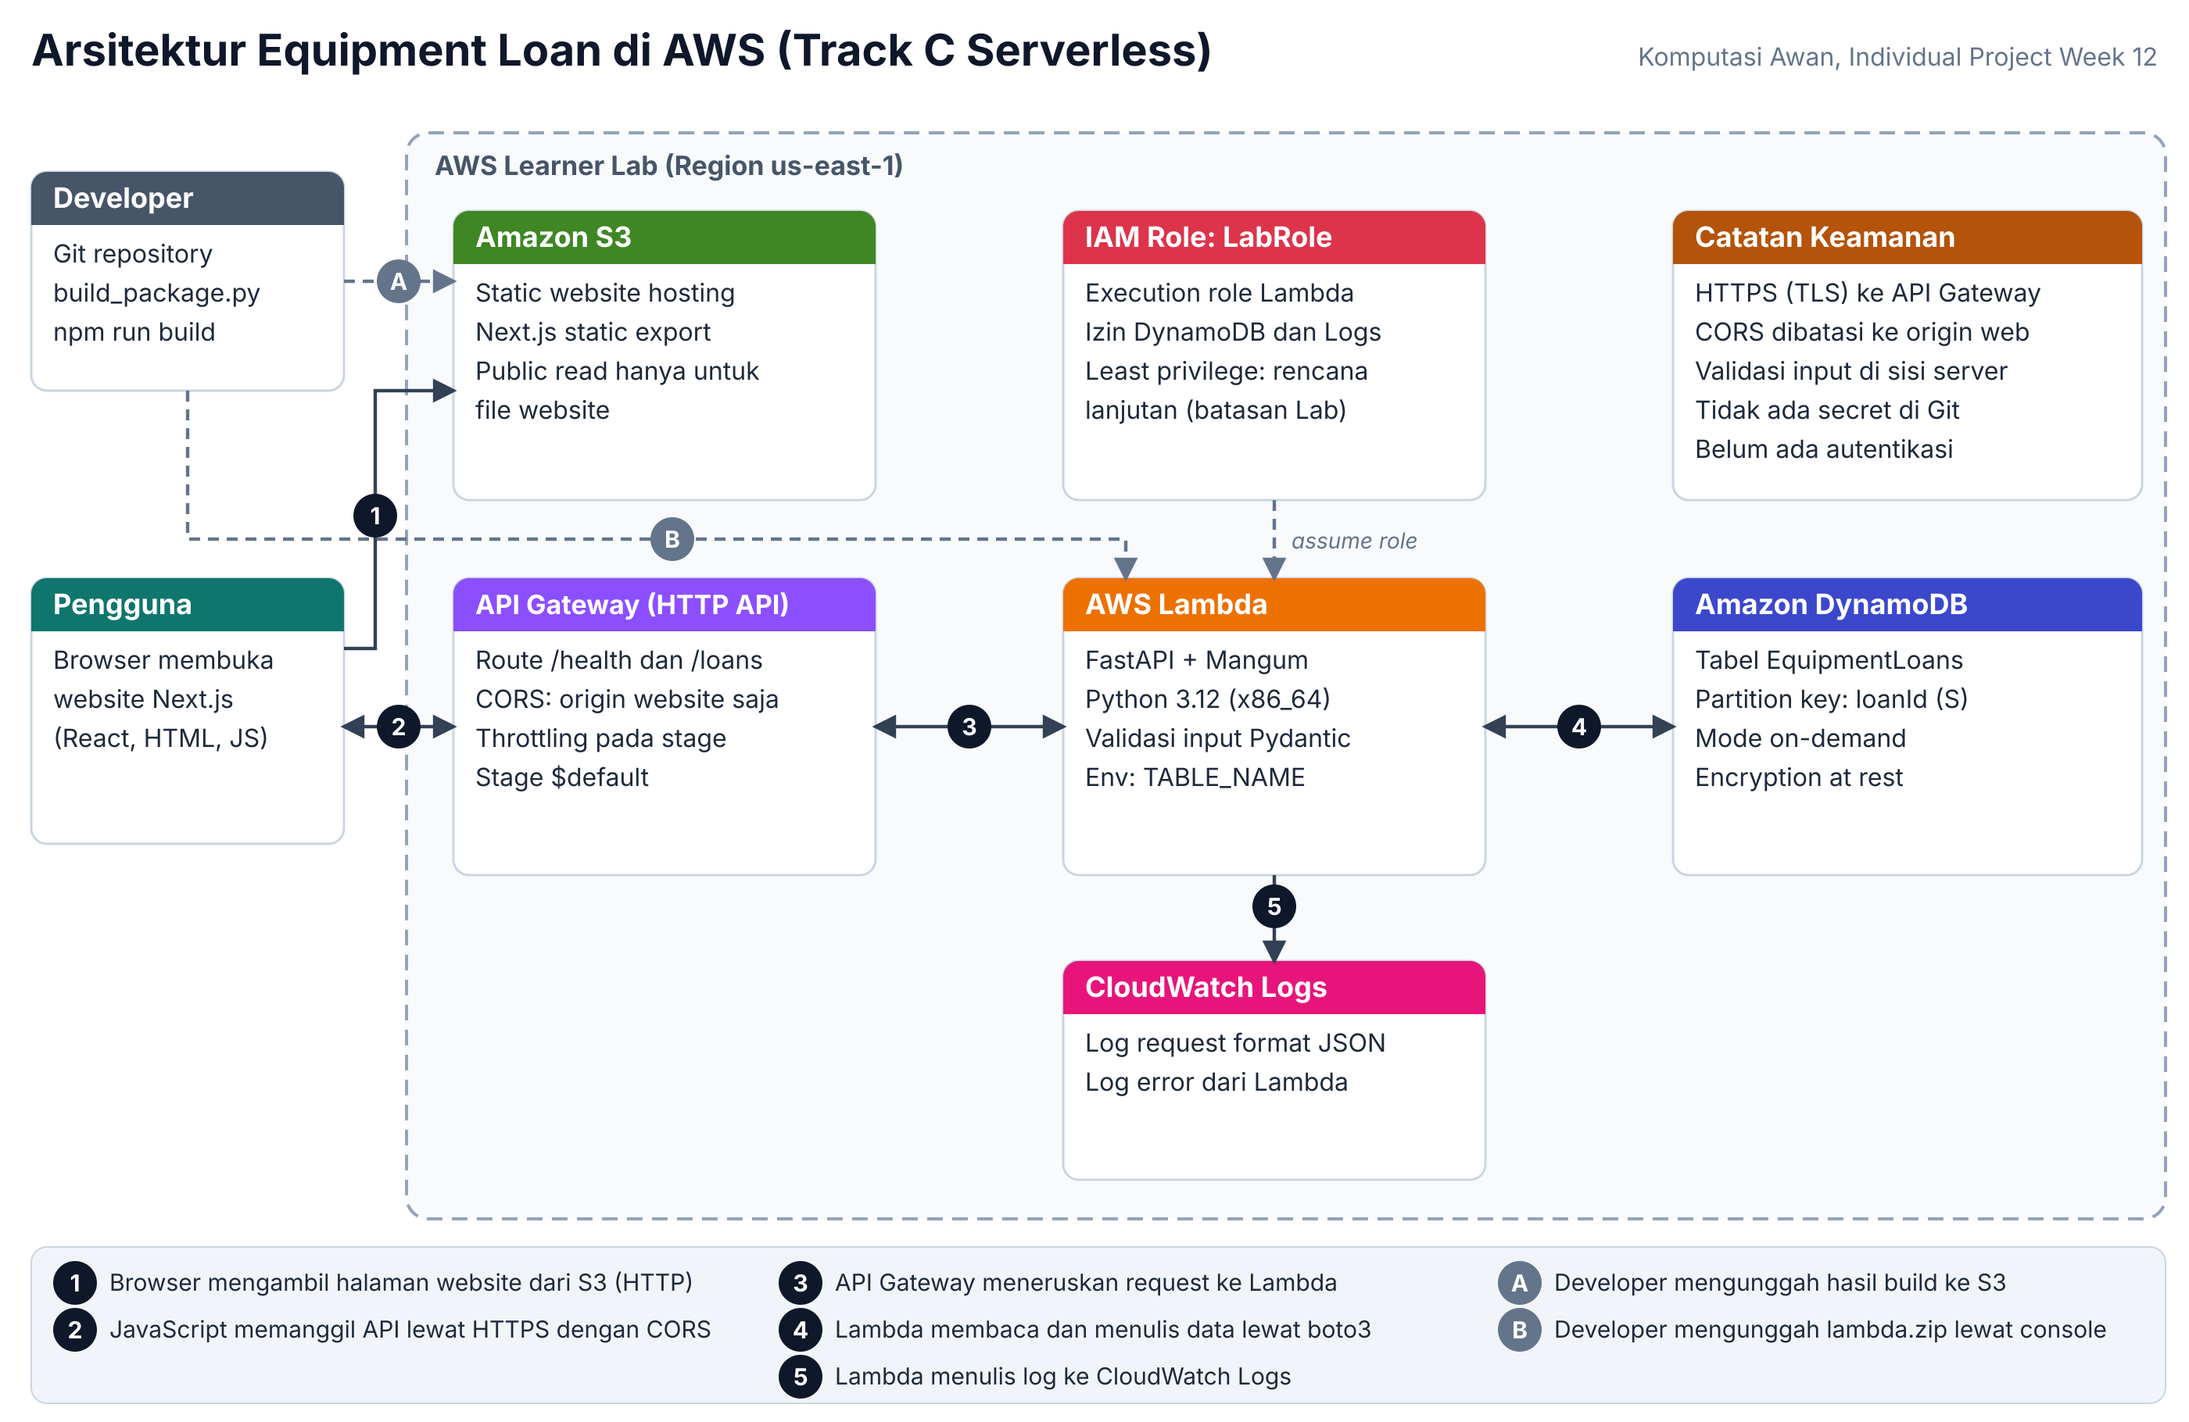
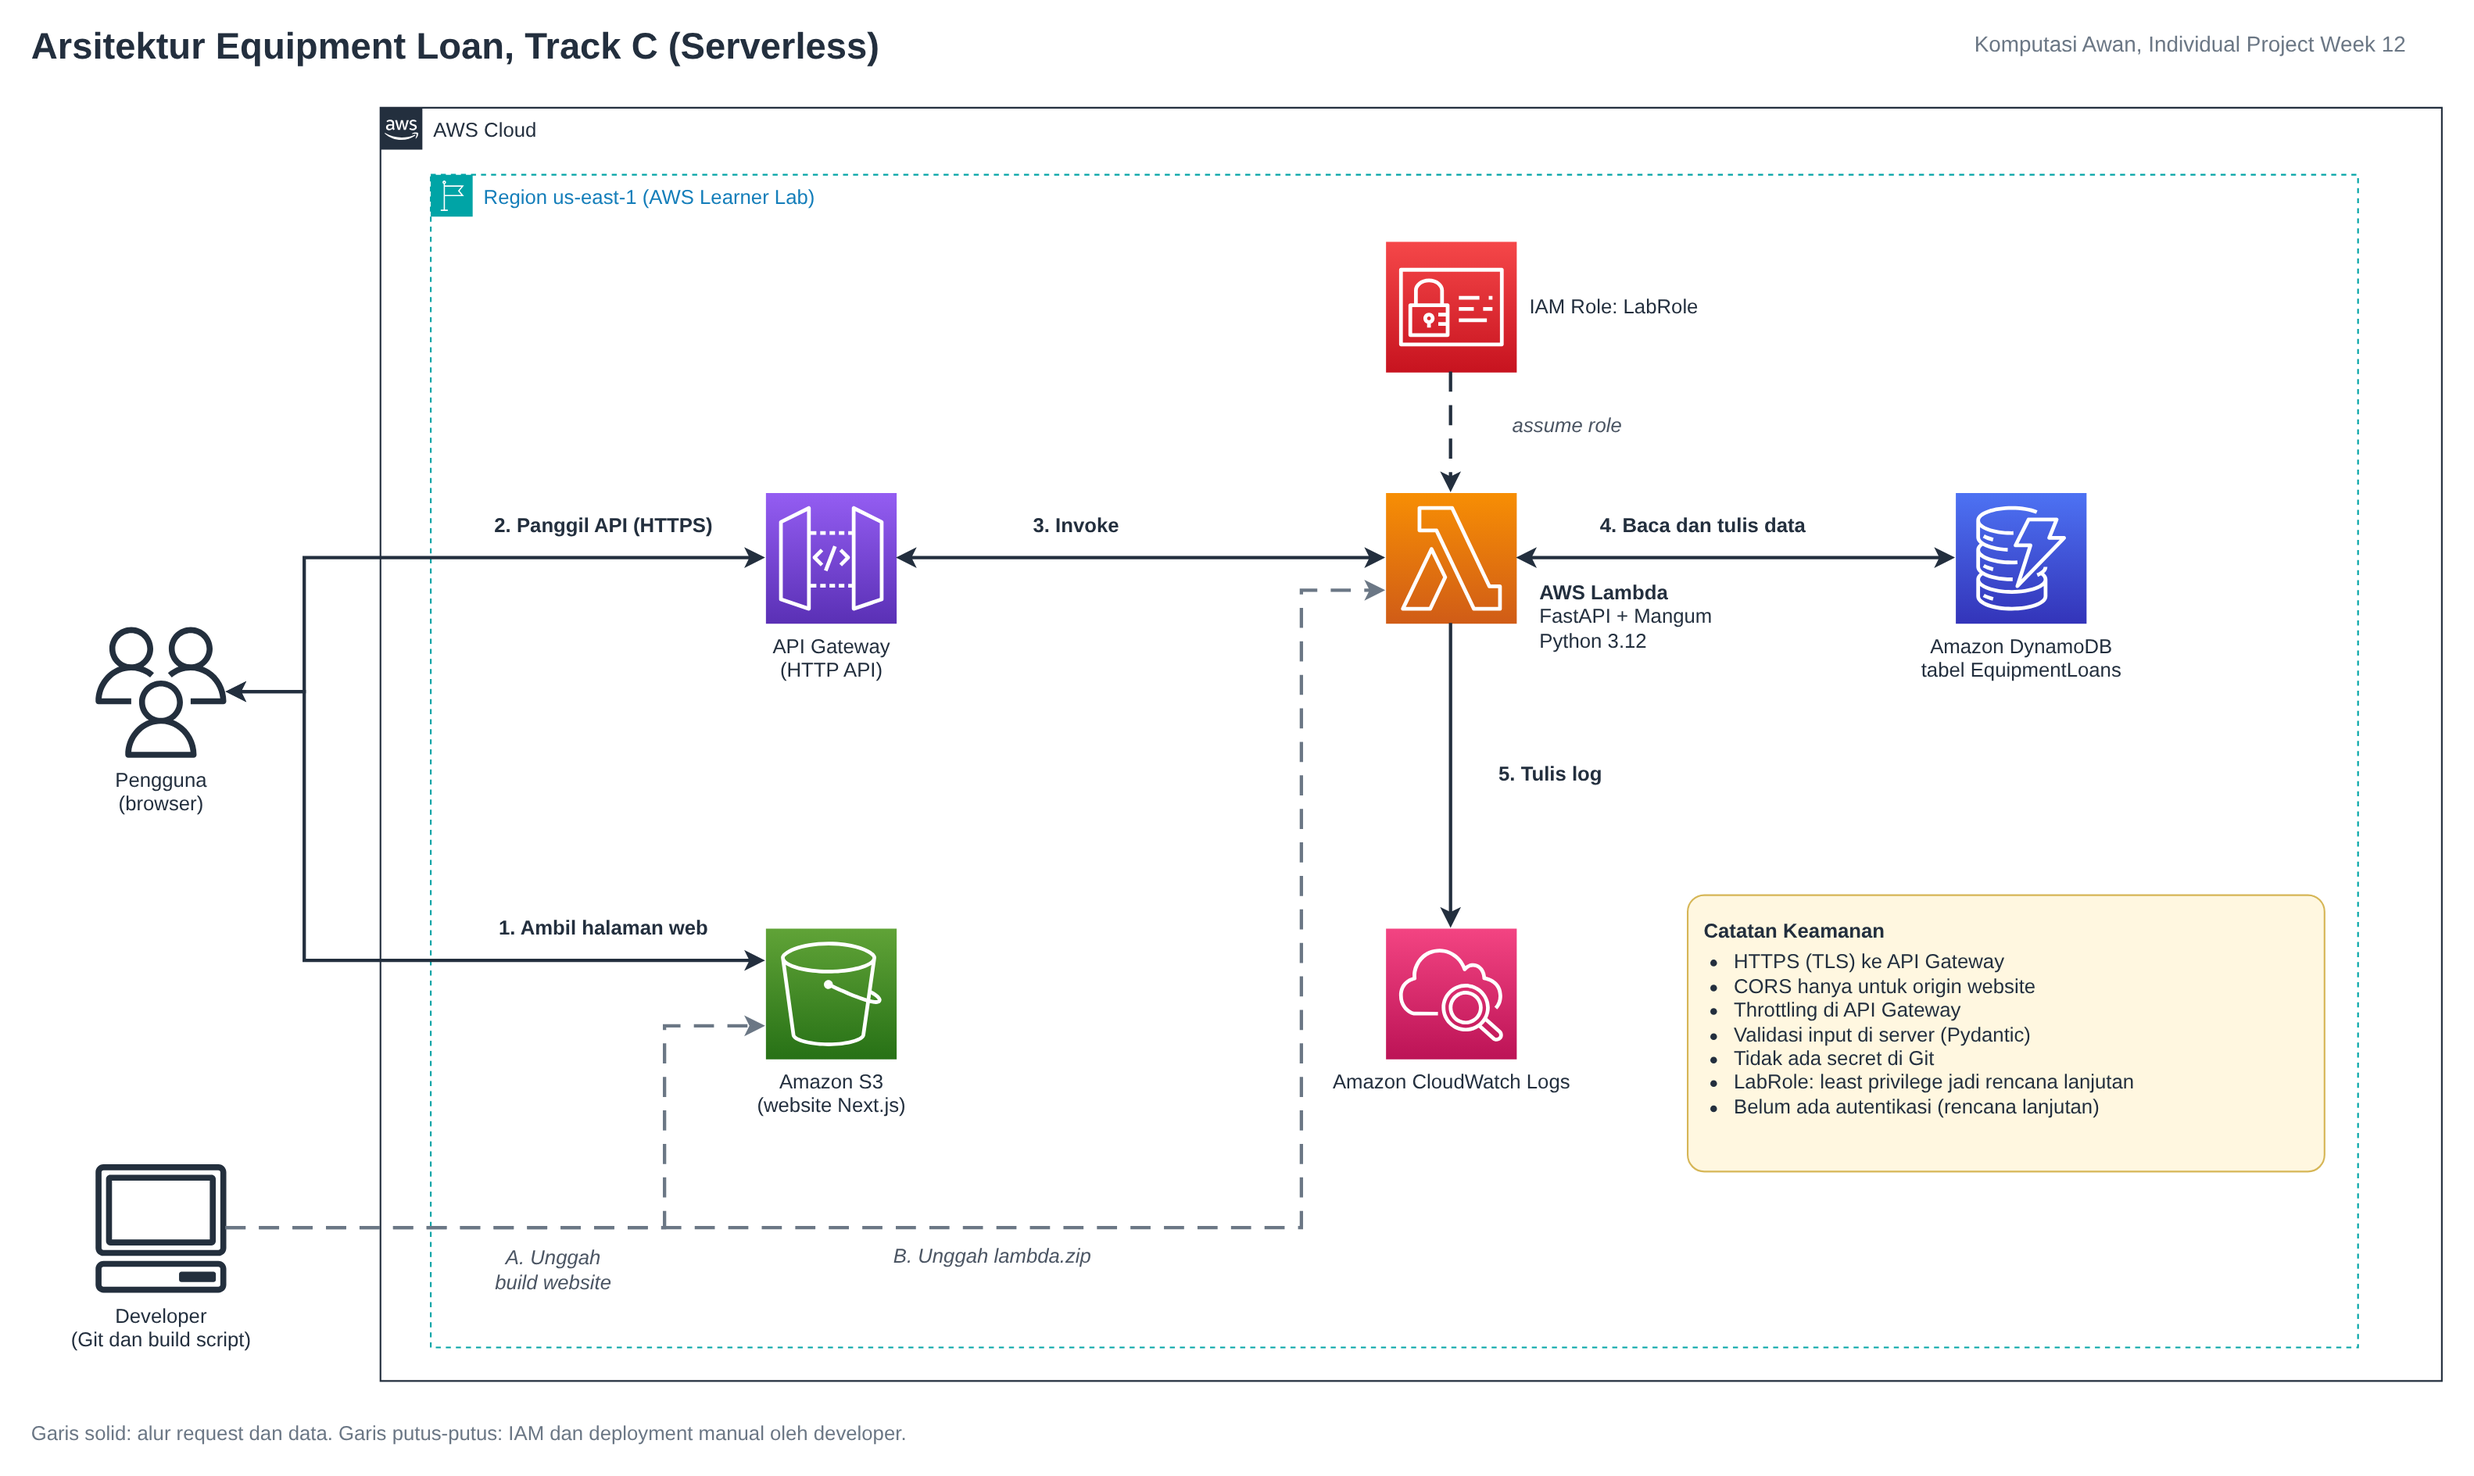
Perbarui diagram arsitektur dengan ikon AWS dan tambah file draw.io
Diagram dibuat ulang dengan ikon resmi AWS, grup AWS Cloud dan Region,
garis siku yang rapi, serta label alur bernomor. File sumber .drawio
ditambahkan agar diagram bisa diedit, dan file SVG lama dihapus.

diff --git a/README.md b/README.md
@@ -52,7 +52,8 @@ equipment-loan-aws/
 ├── infra/
 │   └── test-event-health.json  event uji untuk Lambda di console
 ├── docs/
-│   ├── architecture.png      diagram arsitektur
+│   ├── architecture.png      diagram arsitektur (gambar)
+│   ├── architecture.drawio   diagram arsitektur (bisa diedit di draw.io)
 │   ├── api-spec.md           spesifikasi API
 │   ├── deployment-guide.md   panduan deployment langkah demi langkah
 │   └── evidence/             screenshot bukti AWS
